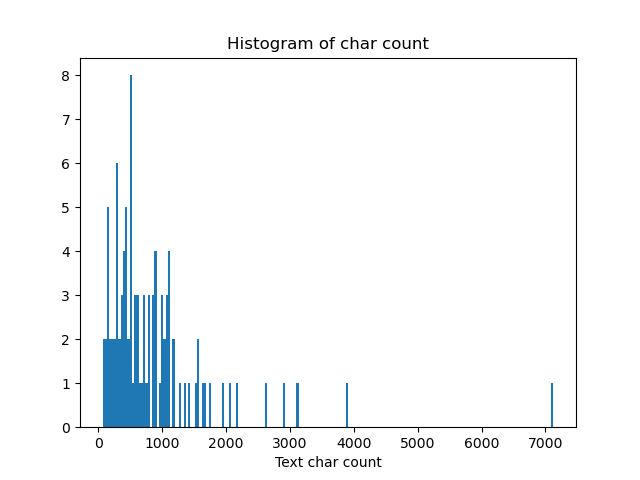
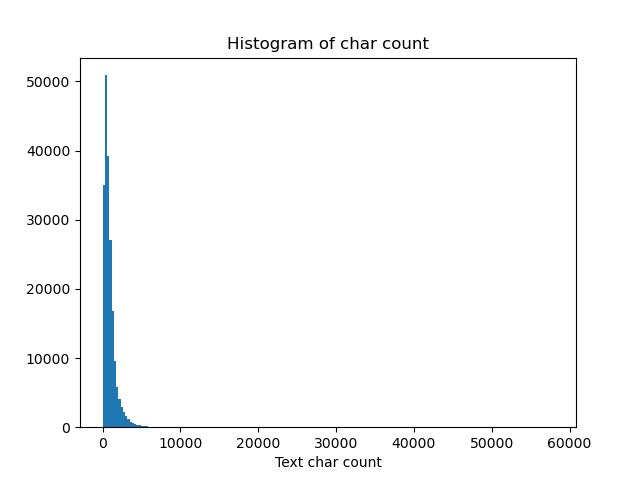
完成Task2作业部分

diff --git a/Task2 数据读取与数据分析/Task2 数据读取与数据分析.py b/Task2 数据读取与数据分析/Task2 数据读取与数据分析.py
@@ -1,23 +1,28 @@
+#数据读取
 import pandas as pd
-train_df=pd.read_csv('./datalab/train_set.csv',sep='\t',nrows=100)
+train_df=pd.read_csv('./datalab/train_set.csv',sep='\t')
 print(train_df.head())
 
+#句子长度分析
 train_df['text_len'] = train_df['text'].apply(lambda x: len(x.split(' ')))
 print(train_df['text_len'].describe())
 
+#下图将句子长度绘制了直方图，可见大部分句子的长度都几种在2000以内。
 import matplotlib.pyplot as plt
 _ = plt.hist(train_df['text_len'], bins=200)
 plt.xlabel('Text char count')
 plt.title("Histogram of char count")
 plt.show()
-
+#新闻类别分布
 train_df['label'].value_counts().plot(kind='bar')
 plt.title('News class count')
 plt.xlabel("category")
 plt.show()
 
+#字符分布统计
+#统计每个字符出现的次数
 from collections import Counter
-all_lines = ' '.join(list(train_df['text']))
+all_lines = ''.join(list(train_df['text']))
 word_count = Counter(all_lines.split(" "))
 word_count = sorted(word_count.items(), key=lambda d:d[1], reverse = True)
 
@@ -30,6 +35,7 @@ print(word_count[0])
 print(word_count[-1])
 # ('3133', 1)
 
+#下面代码统计了不同字符在句子中出现的次数，其中字符3750，字符900和字符648在20w新闻的覆盖率接近99%，很有可能是标点符号。
 train_df['text_unique'] = train_df['text'].apply(lambda x: ' '.join(list(set(x.split(' ')))))
 all_lines = ' '.join(list(train_df['text_unique']))
 word_count = Counter(all_lines.split(" "))
@@ -43,3 +49,21 @@ print(word_count[1])
 
 print(word_count[2])
 # ('648', 191975)
+
+#本章作业
+
+#1.假设字符3750，字符900和字符648是句子的标点符号，请分析赛题每篇新闻平均由多少个句子构成？
+import re
+train_df['sentence_num']=train_df['text'].apply(lambda x:len(re.split('3750|900|648',x)))
+print('每篇新闻平均包含句子数量：',sum(train_df['sentence_num'])/len(train_df['sentence_num']))
+
+#2.统计每类新闻中出现次数最多的字符
+all_lines_in_a_class=[]
+for i in range(14):
+    line=' '.join(train_df[train_df['label']==i]['text'])
+    all_lines_in_a_class.append(re.sub('3750|900|648','',line))#将标点替换成''
+
+for i,line in enumerate(all_lines_in_a_class):
+    word_count=Counter(line.split(' '))
+    word_count=sorted(word_count.items(),key=lambda d:int(d[1]),reverse=True)
+    print('新闻种类',i,':',word_count[1])
